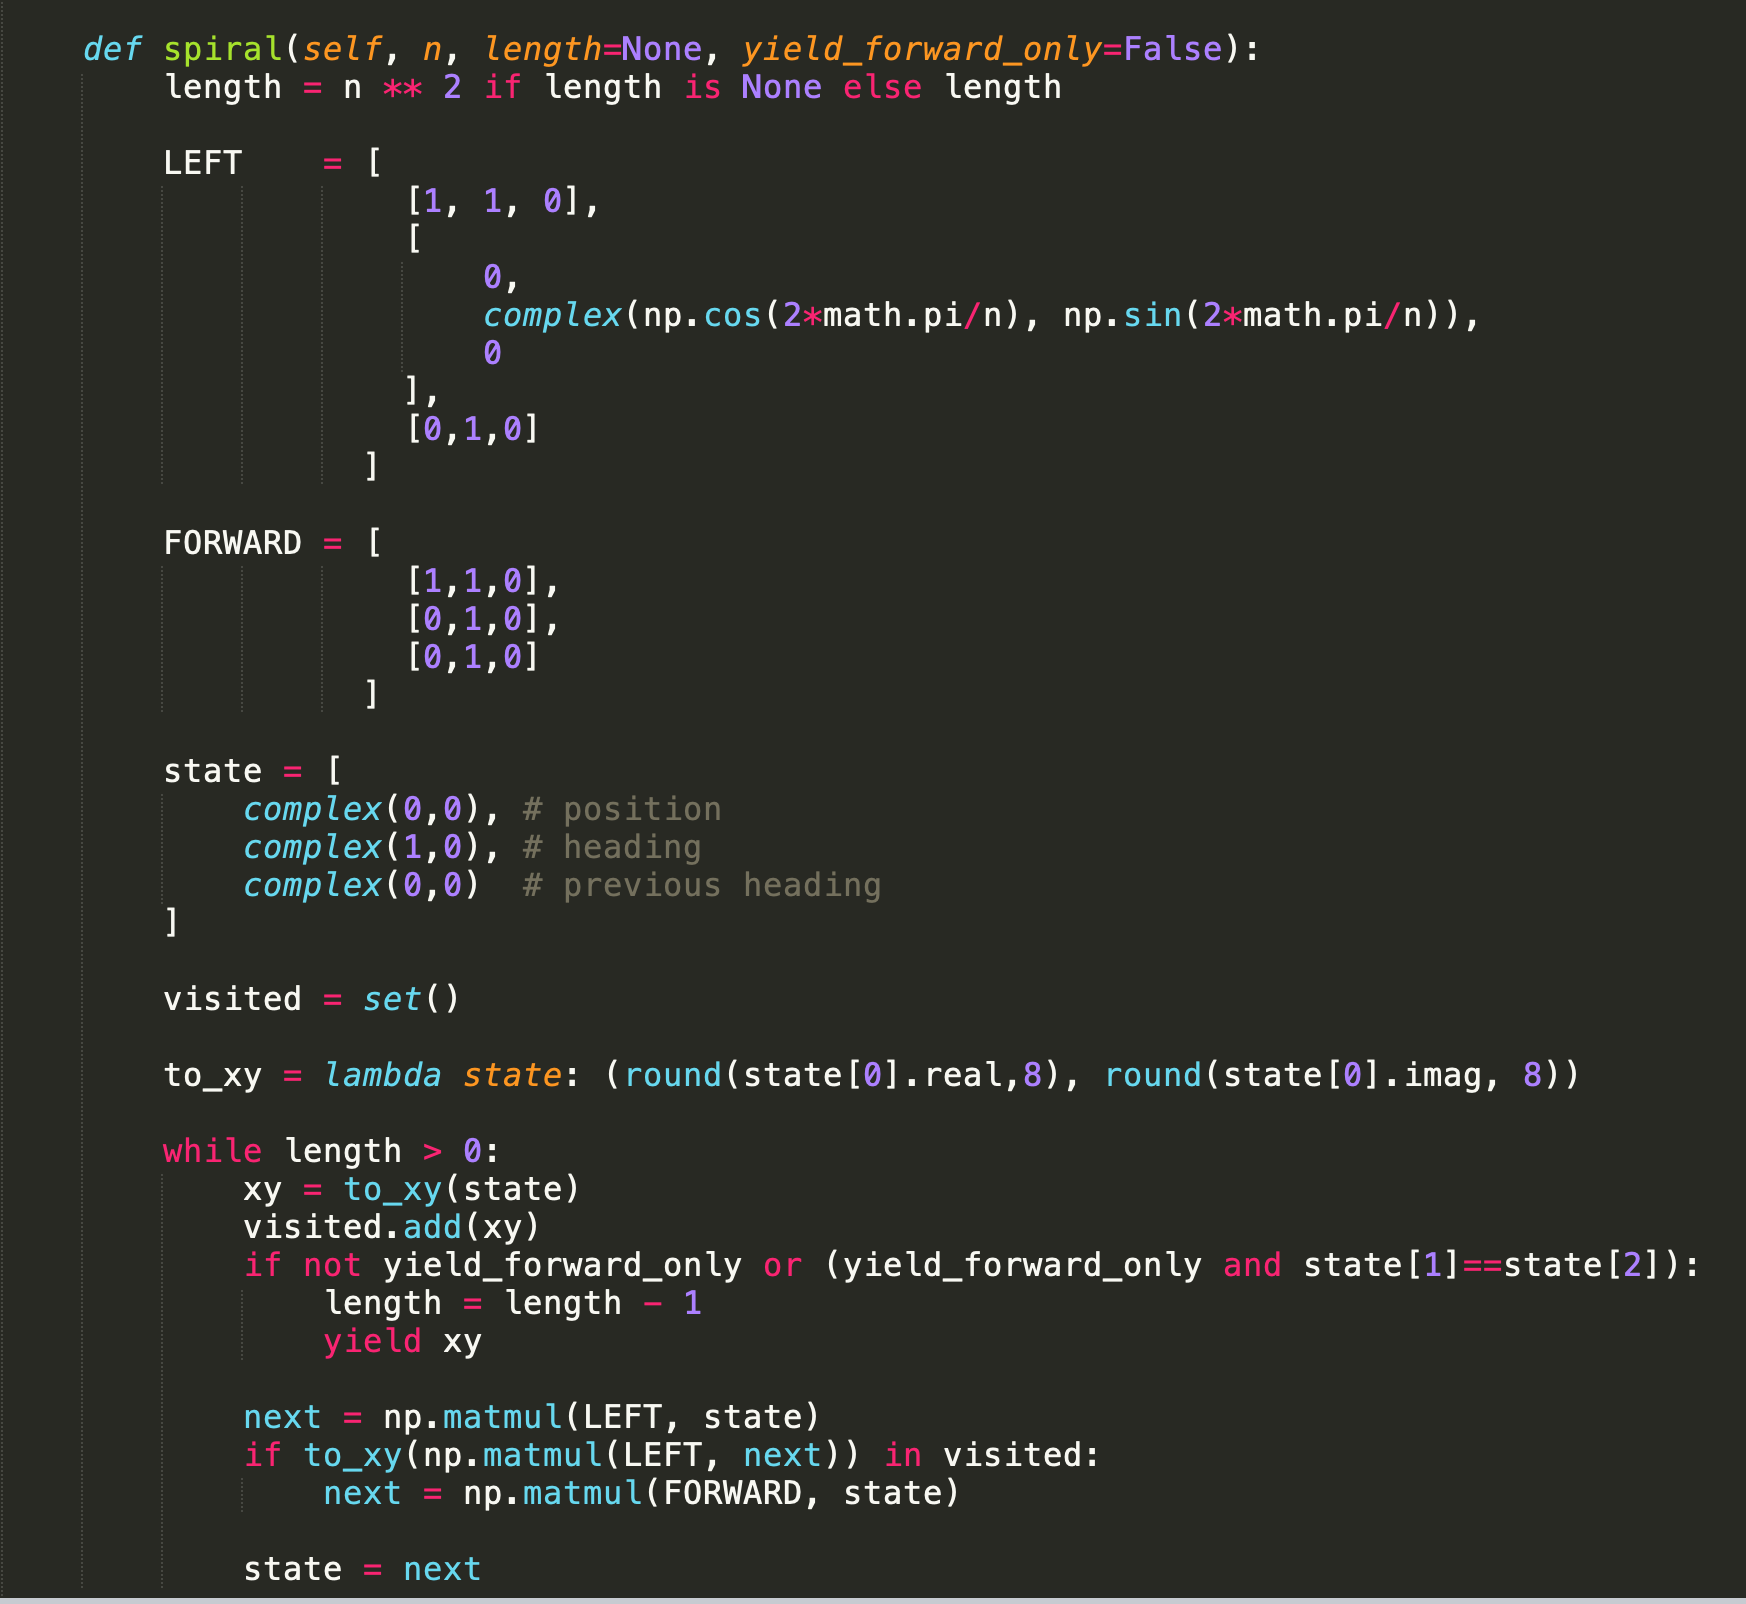
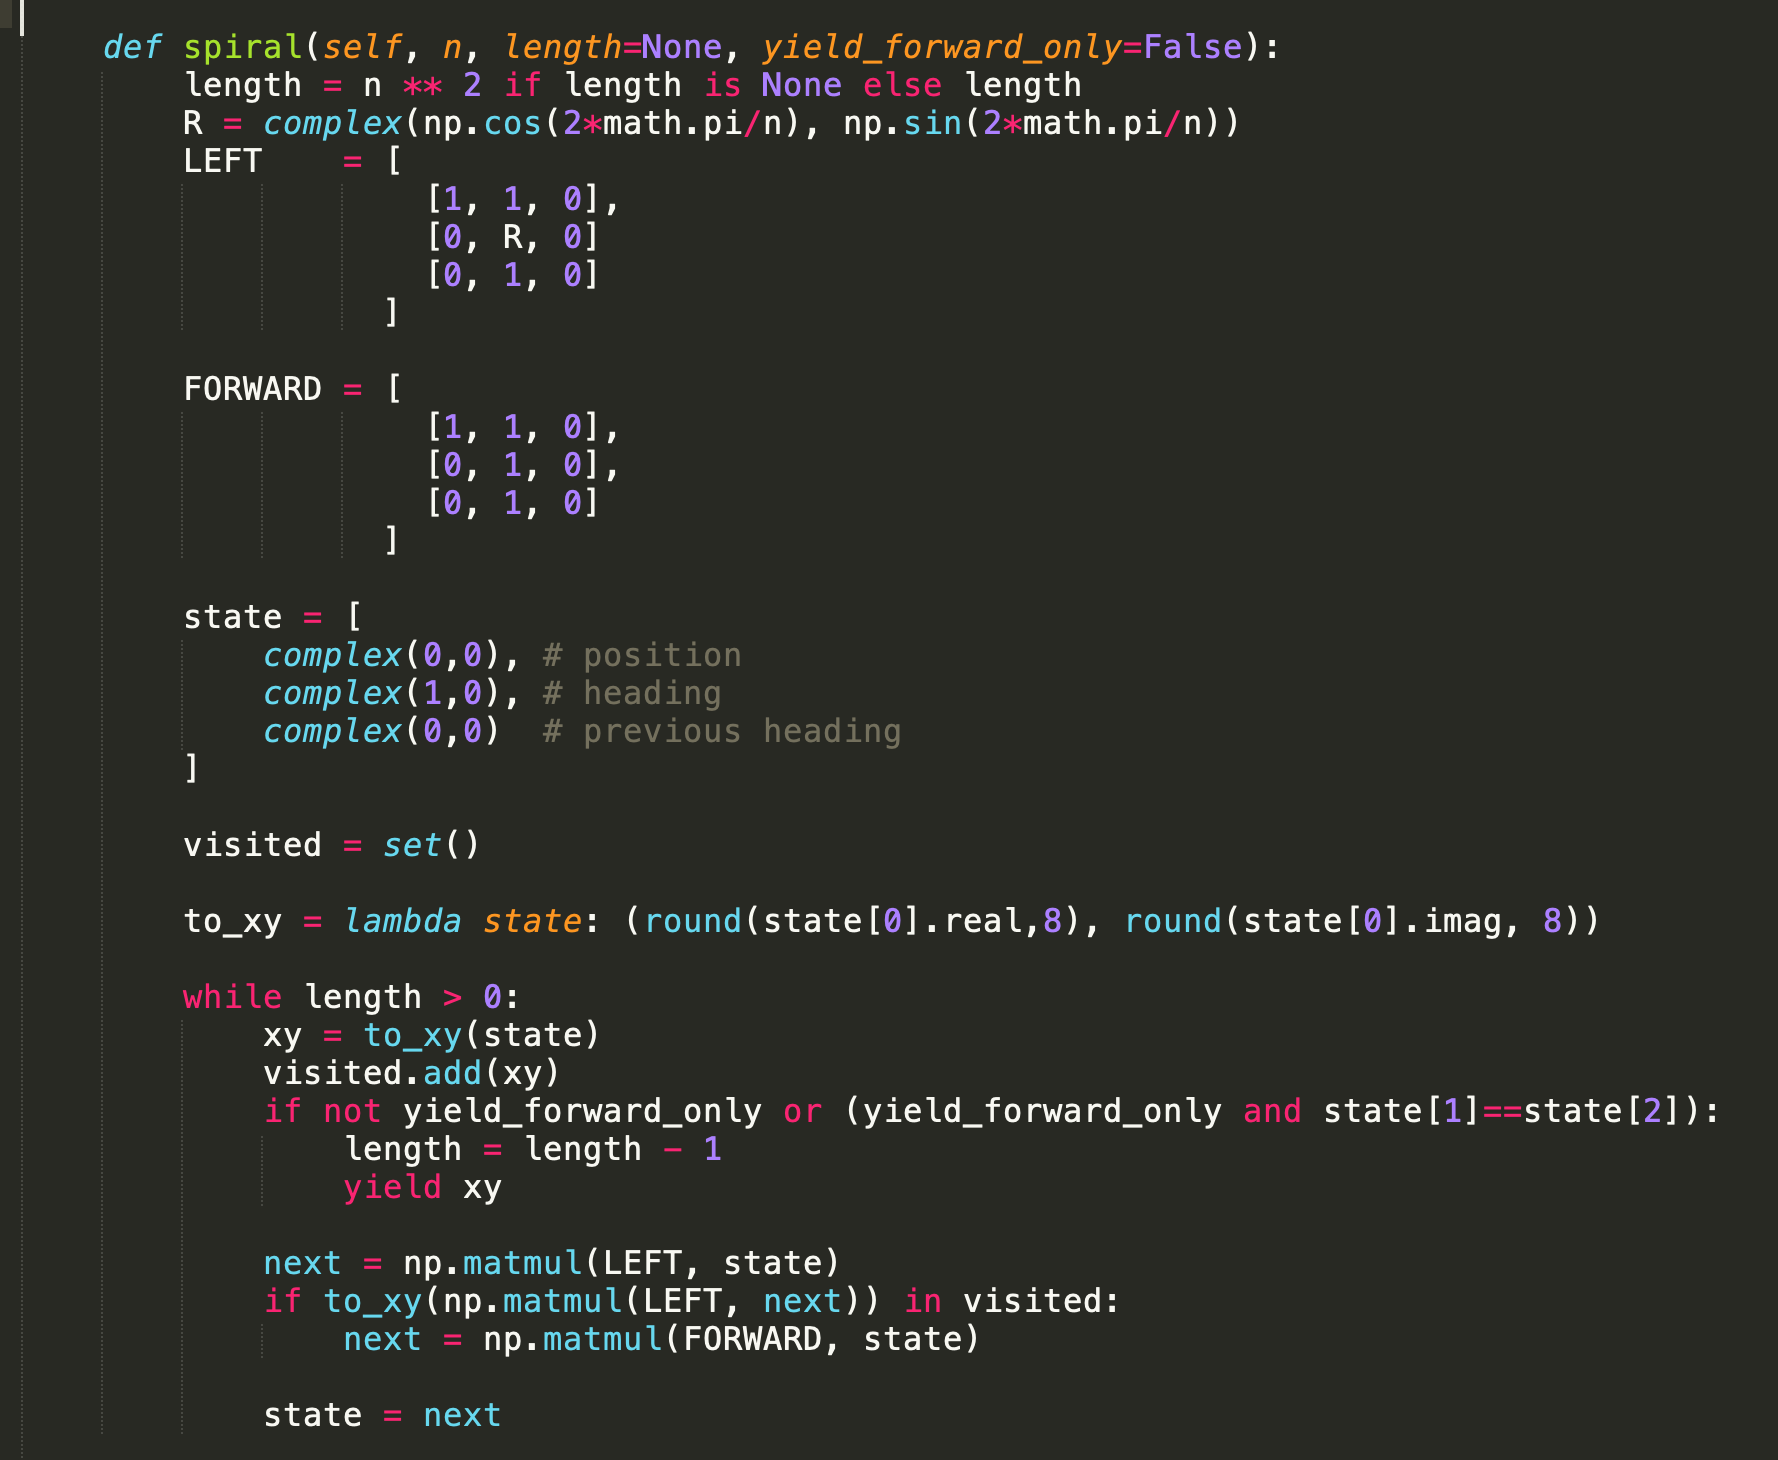
tweak initialization.

diff --git a/spirals/SpiralPlotter.py b/spirals/SpiralPlotter.py
@@ -6,21 +6,17 @@ class SpiralPlotter:
 
     def spiral(self, n, length=None, yield_forward_only=False):
         length = n ** 2 if length is None else length
-
+        R = complex(np.cos(2*math.pi/n), np.sin(2*math.pi/n))
         LEFT    = [
                     [1, 1, 0],
-                    [
-                        0,
-                        complex(np.cos(2*math.pi/n), np.sin(2*math.pi/n)),
-                        0
-                    ],
-                    [0,1,0]
+                    [0, R, 0]
+                    [0, 1, 0]
                   ]
 
         FORWARD = [
-                    [1,1,0],
-                    [0,1,0],
-                    [0,1,0]
+                    [1, 1, 0],
+                    [0, 1, 0],
+                    [0, 1, 0]
                   ]
 
         state = [
